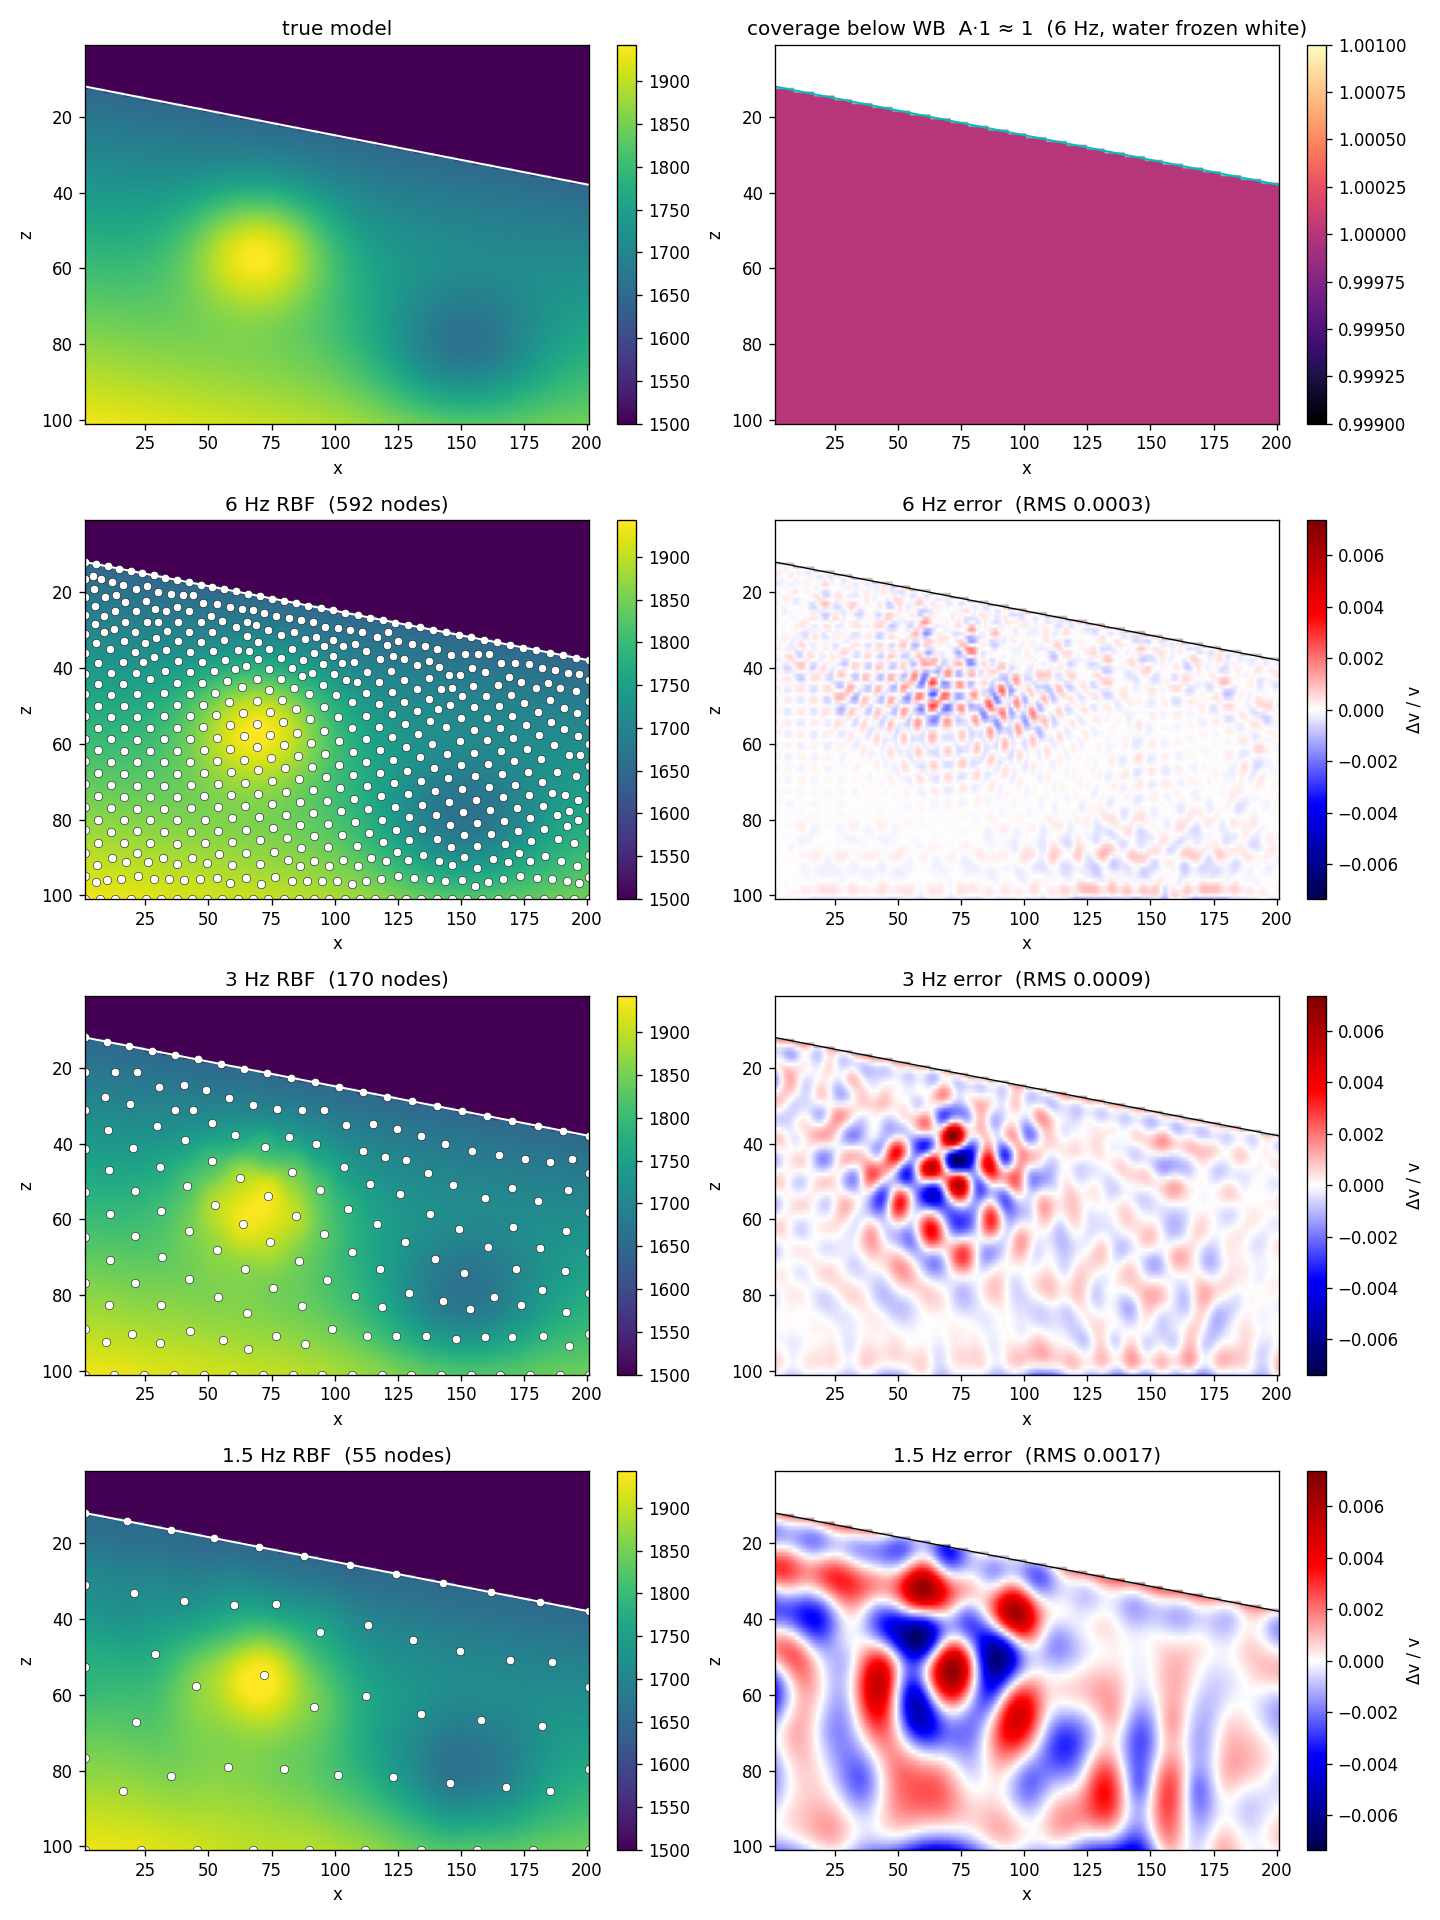
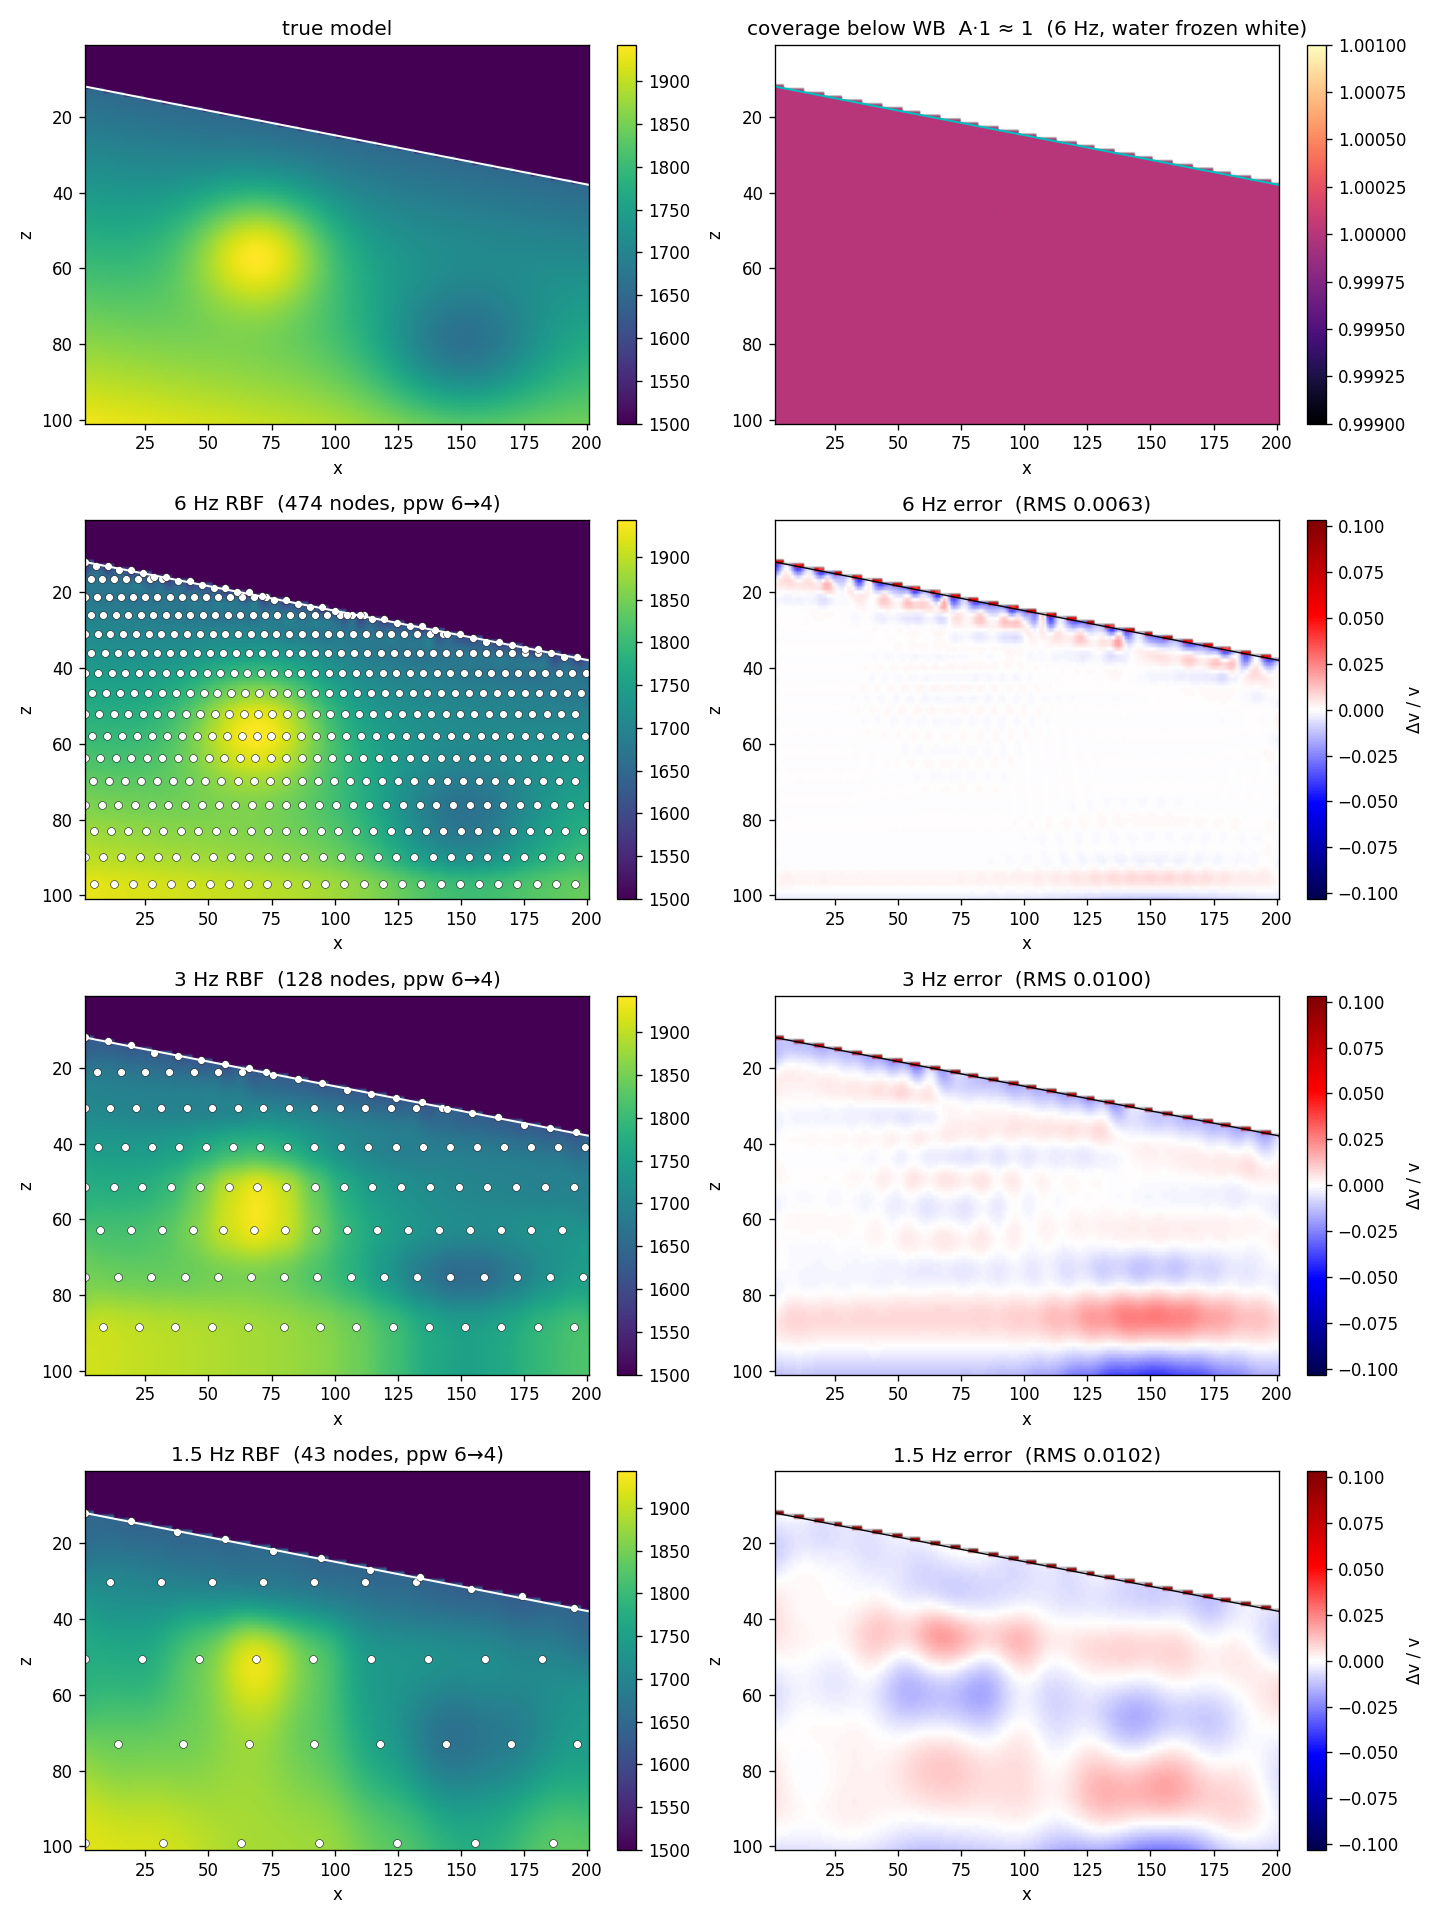
docs(JopRBF): replace Gmsh node placement with a hand-rolled tapered cloud
The water-bottom demo now places RBF centers with a pure base-Julia depth-tapered structured cloud (rbf_tapered_nodes.jl: brick-offset rows, spacing = v(z)/(freq*ppw(z)), ppw tapering with depth) instead of a Gmsh mesh. Removes Gmsh from docs/JopRBF/Project.toml and Manifest, rewrites JopRBF_waterbottom_demo.jl, and removes all Gmsh mentions from JopRBF-demo.md. Figure regenerated (6/3/1.5 Hz to 474/128/43 nodes).

diff --git a/docs/JopRBF/JopRBF-demo.md b/docs/JopRBF/JopRBF-demo.md
@@ -8,9 +8,8 @@ and a matrix-free implementation that scales to very large grids (for example
 1000^3).
 
 This directory holds the operator's demo scripts and the figures below. The demos
-use a local project (`docs/JopRBF/Project.toml`) that adds PyPlot and Gmsh
-alongside a dev'd JetPack, so those plotting/meshing dependencies stay out of
-JetPack itself:
+use a local project (`docs/JopRBF/Project.toml`) that adds PyPlot alongside a
+dev'd JetPack, so the plotting dependency stays out of JetPack itself:
 
 ```
 julia --startup-file=no --project=docs/JopRBF -t 8 docs/JopRBF/JopRBF_waterbottom_demo.jl   # water-bottom comparison figure
@@ -73,12 +72,13 @@ The scattered nodes make it natural to parameterize only the sediment below a
 (possibly dipping) water bottom while freezing the water column.
 
 1. Get the water-bottom depth `wb(x)` (for example from `water_bottom_index`).
-2. Mesh the sediment below the water bottom with [Gmsh](https://gmsh.info) using a
-   size field $h(z) = \lambda(z)/\text{ppw}(z)$ with $\lambda(z) = v(z)/f$, so the
-   node spacing follows a points-per-wavelength rule (denser where the wavelength
-   is short). The water bottom is embedded as a boundary curve, so mesh vertices
-   land on it, and the mesh vertices are used as the RBF centers. Gmsh runs from
-   the demo's local project, not from JetPack.
+2. Place the RBF centers below the water bottom with a depth-tapered scattered
+   cloud ([`tapered_rbf_nodes`](rbf_tapered_nodes.jl), pure base Julia, no external
+   mesher): brick-offset rows with spacing $h(z) = \lambda(z)/\text{ppw}(z)$,
+   $\lambda(z) = v(z)/f$, so the node spacing follows a points-per-wavelength rule
+   (denser where the wavelength is short), with `ppw` tapering linearly with depth
+   (dense at the water bottom, sparse at depth). A water-bottom-conforming row
+   lands the shallowest nodes on the water bottom.
 3. Build the reduced parameterization operator as a composition:
 
    ```julia
@@ -101,14 +101,14 @@ The scattered nodes make it natural to parameterize only the sediment below a
 **Figure 1**, produced by
 [`JopRBF_waterbottom_demo.jl`](JopRBF_waterbottom_demo.jl), shows this on a 101×201
 model with a sloping water bottom, comparing three inversion frequencies (lower
-frequency $\Rightarrow$ longer wavelength $\Rightarrow$ coarser mesh). Row 1: the
-true model, and the partition-of-unity coverage below the water bottom (water shown
-white). Rows 2-4: the frozen-water + RBF parameterization at 6, 3 and 1 Hz (mesh
-nodes overlaid) next to the signed relative error $\Delta v/v$ (red/blue, shared
-color scale). Node counts follow the size field: 6 Hz ≈ 737 nodes (0.0003 RMS),
-3 Hz ≈ 207 (0.0008), 1 Hz ≈ 34 (0.0075) below-WB relative error. The 1 Hz case is
-coarse because its wavelength exceeds the model depth (Gmsh meshes to the size
-field; it does not add points to fit the data).
+frequency $\Rightarrow$ longer wavelength $\Rightarrow$ coarser node cloud). Row 1:
+the true model, and the partition-of-unity coverage below the water bottom (water
+shown white). Rows 2-4: the frozen-water + RBF parameterization at 6, 3 and 1.5 Hz
+(nodes overlaid) next to the signed relative error $\Delta v/v$ (red/blue, shared
+color scale). Node counts follow the points-per-wavelength taper: 6 Hz ≈ 474 nodes
+(33× reduction, 0.006 RMS), 3 Hz ≈ 128 (121×, 0.010), 1.5 Hz ≈ 43 (360×, 0.010)
+below-WB relative error. Lower frequency = fewer nodes = a smoother, coarser
+representation.
 
 ![Figure 1: water bottom freeze workflow](images/jopRBF_waterbottom_2d.png)
 